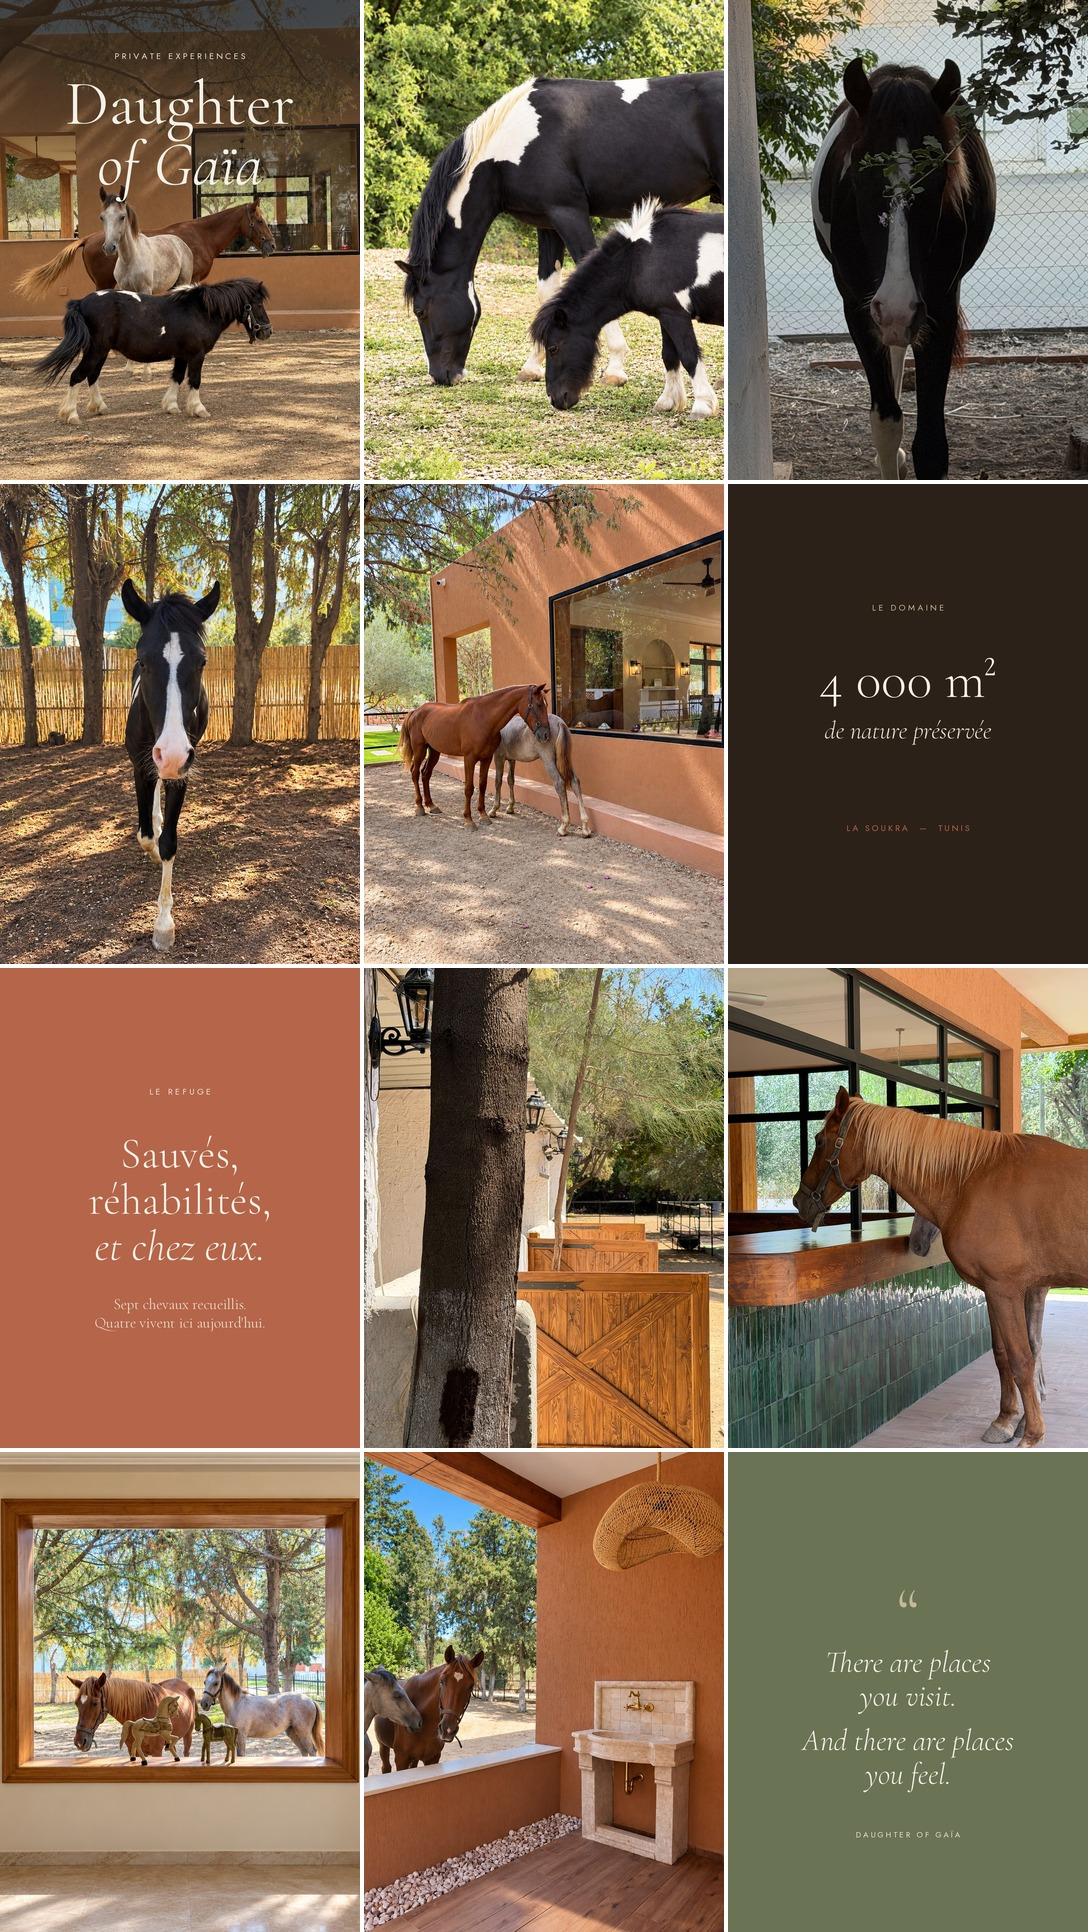
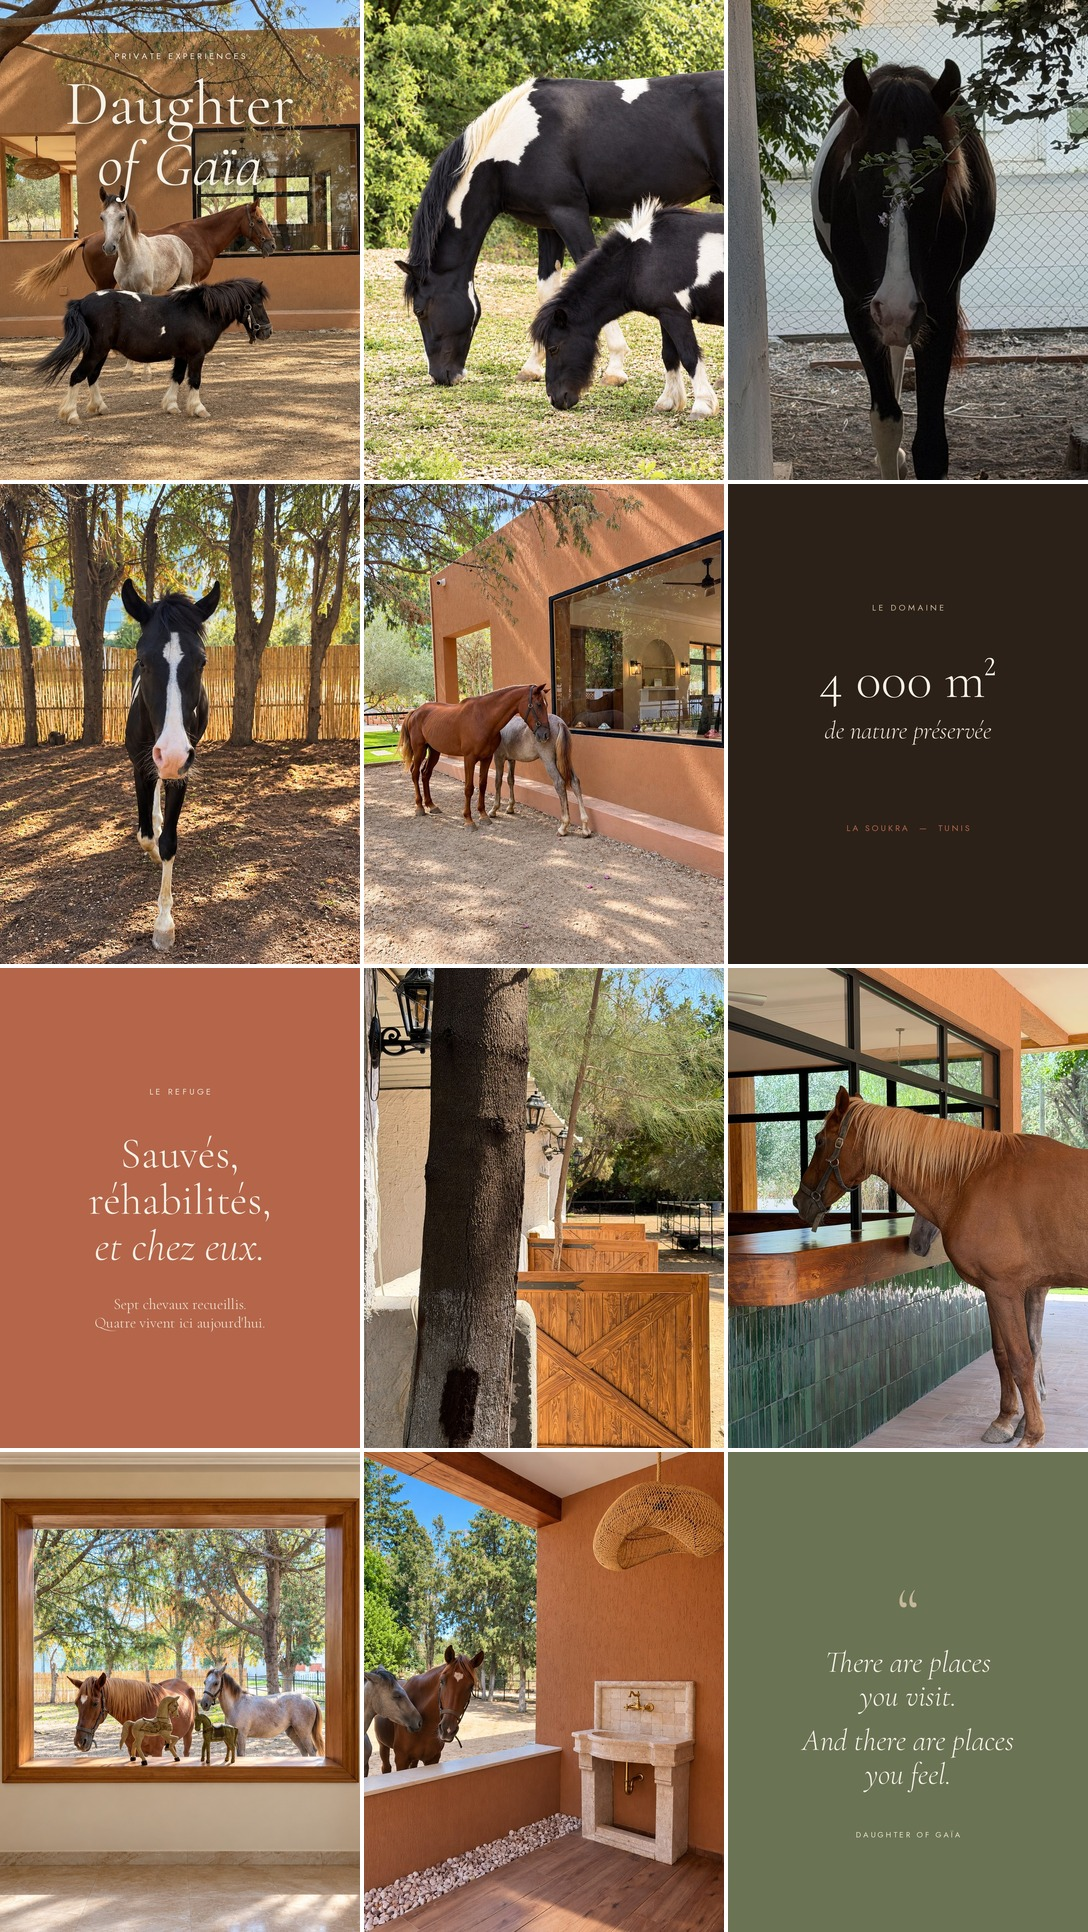
Rend leurs couleurs chaudes au post du nom et à la story
Le voile sombre qui ternissait le mur ocre est remplacé par une ombre
douce autour des lettres. La photo des trois chevaux vient du fichier
envoyé, et le nom de la story remonte pour ne plus couvrir les chevaux.

Claude-Session: https://claude.ai/code/session_01MS2dviwewWZA4sauzwea3X

Changed region(s): [[0.0, 0.0, 0.3438, 0.1242]]

diff --git a/instagram/generer.py b/instagram/generer.py
@@ -123,23 +123,27 @@ def domaine():
     ])
 
 
-def nom_du_projet():
-    """Les trois chevaux devant le mur ocre, le nom en grand au-dessus d'eux.
-    Le voile descend du haut : le nom se détache sur un fond sombre et
-    calme, lisible même en vignette, et les chevaux restent en pleine
-    lumière."""
-    W, H = POST
-    im = photo("trois-chevaux.jpg", POST, (0.5, 0.75))
-    degrade = Image.new("L", (1, H))
-    for y in range(H):
-        t = max(0, 1 - y / 720)
-        degrade.putpixel((0, y), int(200 * min(1, t * 1.3) ** 1.1))
-    im = Image.composite(Image.new("RGB", POST, ENCRE), im, degrade.resize(POST))
+def nom_avec_ombre(im, y0, taille=176, sur="PRIVATE EXPERIENCES"):
+    """Le nom en crème, détaché par une ombre douce autour des lettres
+    plutôt que par un voile : la photo garde toutes ses couleurs."""
+    W = im.size[0]
+    lignes = [(y0 - 45, sur, sans(24, 400), 7), (y0, "Daughter", serif(taille, 400), 0),
+              (y0 + taille * 0.97, "of Gaïa", italique(taille, 400), 0)]
+    ombre = Image.new("L", im.size, 0)
+    d = ImageDraw.Draw(ombre)
+    for y, texte, f, esp in lignes:
+        centre(d, y, texte, f, 255, W, esp)
+    ombre = ombre.filter(ImageFilter.MaxFilter(9)).filter(ImageFilter.GaussianBlur(22))
+    im = Image.composite(Image.new("RGB", im.size, ENCRE), im, ombre.point(lambda v: int(v * 0.7)))
     d = ImageDraw.Draw(im)
-    centre(d, 140, "PRIVATE EXPERIENCES", sans(24, 400), SABLE, W, 7)
-    centre(d, 185, "Daughter", serif(176, 400), BLANC, W)
-    centre(d, 355, "of Gaïa", italique(176, 400), BLANC, W)
+    for y, texte, f, esp in lignes:
+        centre(d, y, texte, f, BLANC, W, esp)
     return im
+
+
+def nom_du_projet():
+    """Les trois chevaux devant le mur ocre, le nom en grand au-dessus d'eux."""
+    return nom_avec_ombre(photo("trois-chevaux.jpg", POST, (0.5, 0.75)), 185)
 
 
 # Les 12 posts, du premier publié au dernier. Le 12 (le nom) arrive en
@@ -196,12 +200,15 @@ def plus_tard():
 def stories():
     out = RACINE / "stories"
     # L'annonce à publier depuis le compte perso.
-    im = titre_sur_photo("trois-chevaux.jpg", STORY, (0.5, 0.55), 560, voile=0.35)
+    im = nom_avec_ombre(photo("trois-chevaux.jpg", STORY, (0.5, 0.55)), 400, sur="LE NOM DU PROJET")
     d = ImageDraw.Draw(im)
     W = STORY[0]
-    centre(d, 440, "LE NOM DU PROJET", sans(28, 400), SABLE, W, 8)
     # Emplacement laissé libre pour l'autocollant « Mention » ou « Lien ».
-    centre(d, 1420, "Suivez l'aventure", sans(30, 400), SABLE, W, 3)
+    ombre = Image.new("L", STORY, 0)
+    centre(ImageDraw.Draw(ombre), 1600, "Suivez l'aventure", sans(32, 400), 255, W, 3)
+    ombre = ombre.filter(ImageFilter.MaxFilter(9)).filter(ImageFilter.GaussianBlur(16))
+    im = Image.composite(Image.new("RGB", STORY, ENCRE), im, ombre.point(lambda v: int(v * 0.6)))
+    centre(ImageDraw.Draw(im), 1600, "Suivez l'aventure", sans(32, 400), BLANC, W, 3)
     sauver(im, out / "annonce-compte-perso.jpg")
 
 
